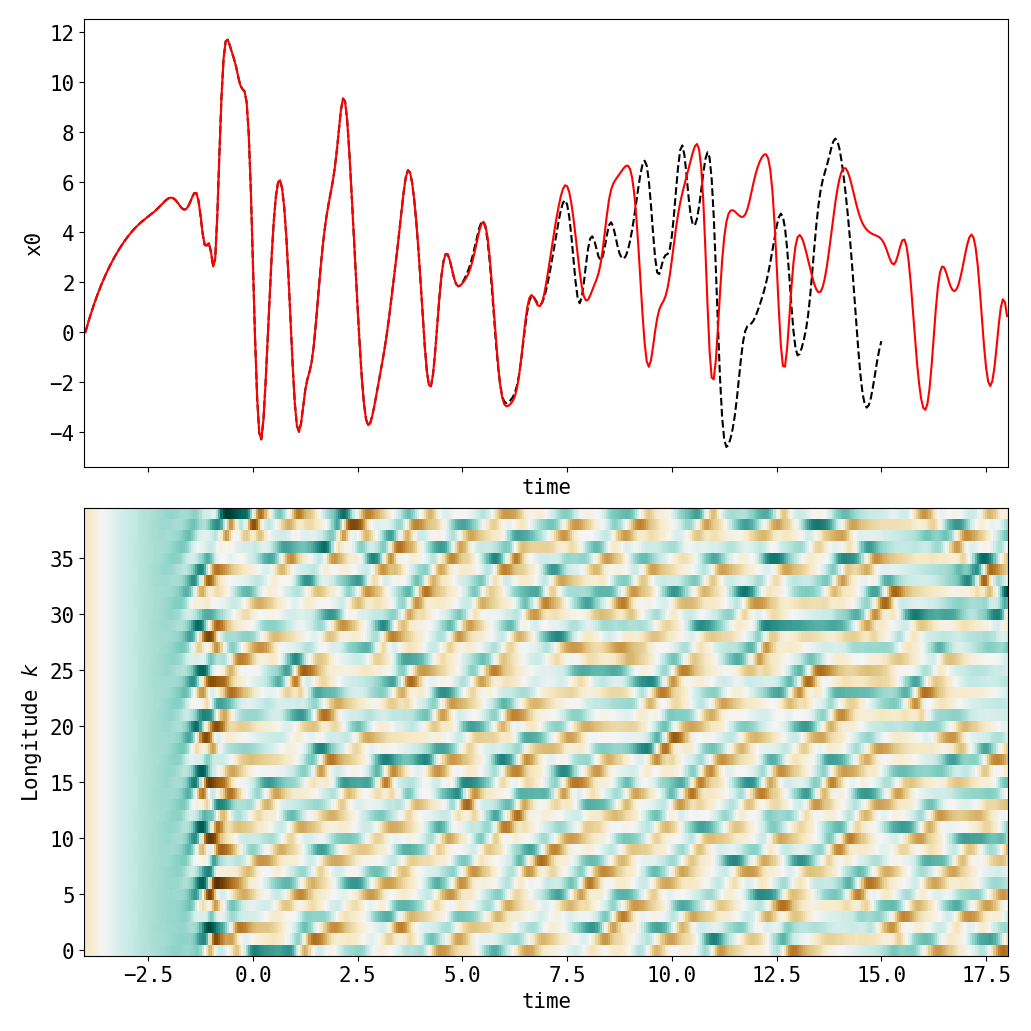
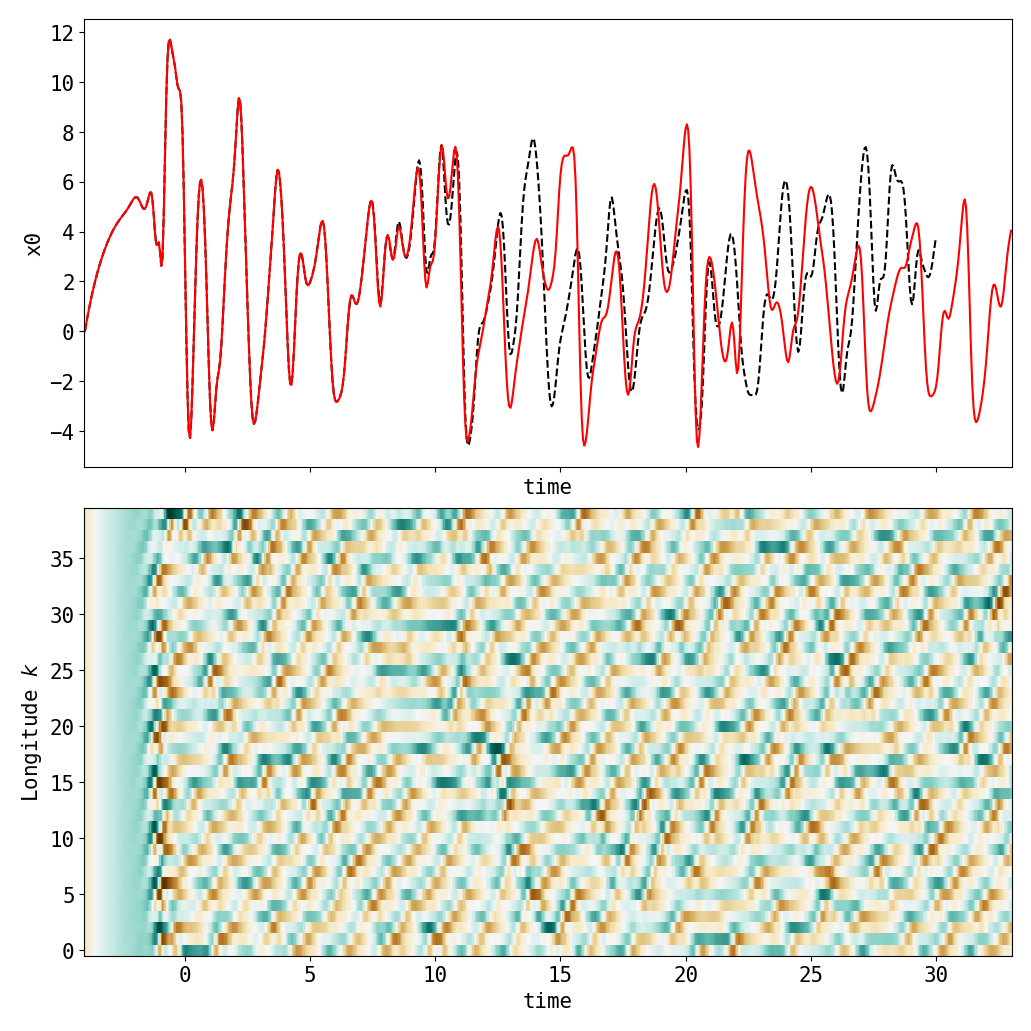
Built more structured noise for L96. Nex todo is do white noise as well. And test divergence is proper

diff --git a/dynamicalsystem.py b/dynamicalsystem.py
@@ -1,6 +1,7 @@
 from abc import ABC, abstractmethod
 import numpy as np
 from numpy.random import default_rng
+from scipy import sparse as sps
 import forcing
 import matplotlib
 import matplotlib.pyplot as plt
@@ -55,7 +56,7 @@ class ODESystem(DynamicalSystem):
     @staticmethod
     def timestep_euler_maruyama(t, x, dt, drift, diffusion, rng): # physical time units
         k1 = dt * tendency(t,x)
-        sdw = np.sqrt(dt) * diffusion(t,x) @ rng.normal(size=(self.noise_dim,))
+        sdw = np.sqrt(dt) * diffusion(t,x) @ rng.normal(size=(self.white_noise_dim,))
         xnew = x + k1 + sdw
         return t+dt, xnew
     def run_trajectory_unperturbed(self, init_cond, init_time, fin_time, method, rng=None):
@@ -147,19 +148,63 @@ class Lorenz96(ODESystem):
     def derive_parameters(self, config):
         self.K = config['K']
         self.F = config['F']
-        self.dt_step = config['dt_step'] # physical
-        self.dt_save = config['dt_save'] # physical
-        # all time arrays will have integers as entries, for unambiguous time alignment
+        self.dt_step = config['dt_step']
+        self.dt_save = config['dt_save'] 
+        if config['forcing']['type'] == 'white':
+            fpar = config['forcing']['white']
+            self.white_noise_dim = 2*len(fpar['wavenumbers']) + len(fpar['sites'])
+            diffmat = np.zeros((self.K, self.white_noise_dim))
+            i_noise = 0
+            for i_wn,wn in enumerate(fpar['wavenumbers']):
+                diffmat[:,i_noise] = fpar['wavenumber_magnitudes'][i_wn] * np.cos(2*np.pi*wn*np.arange(self.K)/self.K)
+                i_noise += 1
+                diffmat[:,i_noise] = fpar['wavenumber_magnitudes'][i_wn] * np.sin(2*np.pi*wn*np.arange(self.K)/self.K)
+                i_noise += 1
+            for i_site,site in enumerate(fpar['sites']):
+                diffmat[site,i_noise] = fpar['site_magnitudes'][i_site]
+                i_noise += 1
+            self.diffusion_matrix = sps.csr_matrix(diffmat)
+        elif config['forcing']['type'] == 'impulsive':
+            fpar = config['forcing']['impulsive']
+            self.impulse_dim = 2*len(fpar['wavenumbers']) + len(fpar['sites'])
+            impmat = np.zeros((self.K, self.impulse_dim))
+            i_noise = 0
+            for i_wn,wn in enumerate(fpar['wavenumbers']):
+                impmat[:,i_noise] = fpar['wavenumber_magnitudes'][i_wn] * np.cos(2*np.pi*wn*np.arange(self.K)/self.K)
+                i_noise += 1
+                impmat[:,i_noise] = fpar['wavenumber_magnitudes'][i_wn] * np.sin(2*np.pi*wn*np.arange(self.K)/self.K)
+                i_noise += 1
+            for i_site,site in enumerate(fpar['sites']):
+                impmat[site,i_noise] = fpar['site_magnitudes'][i_site]
+                i_noise += 1
+            self.impulse_matrix = sps.csr_matrix(impmat)
         return
     def tendency(self, t, x):
         return np.roll(x,1) * (np.roll(x, -1) - np.roll(x,2)) - x + self.F
     def apply_impulse(self, t, x, imp):
-        return x + imp[0]*np.cos(2*np.pi*4*np.arange(self.K)/self.K) + imp[1]*np.sin(2*np.pi*4*np.arange(self.K)/self.K)
+        print(f'{imp = }')
+        return x + self.impulse_matrix @ imp #imp[0]*np.cos(2*np.pi*4*np.arange(self.K)/self.K) + imp[1]*np.sin(2*np.pi*4*np.arange(self.K)/self.K)
     
+def test_Lorenz96_whitenoise():
+    return
 
-
-def test_Lorenz96():
+def test_Lorenz96_impulsive():
     config = dict({'K': 40, 'F': 6.0, 'dt_step': 0.001, 'dt_save': 0.05})
+    config['forcing'] = dict({
+        'type': 'impulsive',
+        'impulsive': dict({
+            'wavenumbers': [1,4],
+            'wavenumber_magnitudes': [0.1,0.1],
+            'sites': [20,30],
+            'site_magnitudes': [0.5, 0.5],
+            }),
+        'white': dict({
+            'wavenumbers': [1,4],
+            'wavenumber_magnitudes': [0.1,0.1],
+            'sites': [20,30],
+            'site_magnitudes': [0.5, 0.5],
+            }),
+        })
     ode = Lorenz96(config)
     tu = ode.dt_save
 
@@ -174,7 +219,7 @@ def test_Lorenz96():
     rng0 = default_rng(8888)
     init_cond = 0.001*rng0.normal(size=(config['K'],))
     init_time_phys = -4.0
-    fin_time_phys = 15.0
+    fin_time_phys = 30.0
     method = 'rk4'
     t_save_0,x_save_0 = ode.run_trajectory_unperturbed(init_cond, init_time_phys/tu, fin_time_phys/tu, method)
 
@@ -193,7 +238,7 @@ def test_Lorenz96():
     # now make a perturbation
     rng1 = default_rng(1928)
     impulse_times = [init_time_phys/tu,5.0/tu]
-    impulses = [np.zeros(2),0.1*rng1.normal(size=(2,))]
+    impulses = [np.zeros(ode.impulse_dim),0.1*rng1.normal(size=(ode.impulse_dim,))]
     f = forcing.ImpulsiveForcing(impulse_times, impulses, (fin_time_phys+3)/tu)
     t_save_1,x_save_1 = ode.run_trajectory(init_cond, f, None, method)
     fig,axes = plt.subplots(nrows=2,figsize=(10,10), sharex=True, constrained_layout=True)
@@ -211,8 +256,8 @@ def test_Lorenz96():
 
     # now make a perturbation
     rng2 = default_rng(1928)
-    impulse_times = [init_time_phys/tu,5.0/tu,10.0/tu]
-    impulses = [np.zeros(2),0.1*rng2.normal(size=(2,)),0.2*rng2.normal(size=(2,))]
+    impulse_times = [init_time_phys/tu,5.0/tu,20.0/tu]
+    impulses = [np.zeros(ode.impulse_dim),0.1*rng2.normal(size=(ode.impulse_dim,)),0.2*rng2.normal(size=(ode.impulse_dim,))]
     f = forcing.ImpulsiveForcing(impulse_times, impulses, (fin_time_phys+3)/tu)
     t_save_2,x_save_2 = ode.run_trajectory(init_cond, f, None, method)
     fig,axes = plt.subplots(nrows=2,figsize=(10,10), sharex=True, constrained_layout=True)
@@ -229,10 +274,12 @@ def test_Lorenz96():
     fig.savefig('L96_x2', **pltkwargs)
     plt.close(fig)
 
+    # TODO add some asserts to verify the trajectories are equal exactly where they're supposed to be
+
     return
 
 if __name__ == "__main__":
-    test_Lorenz96()
+    test_Lorenz96_impulsive()
 
 
 
